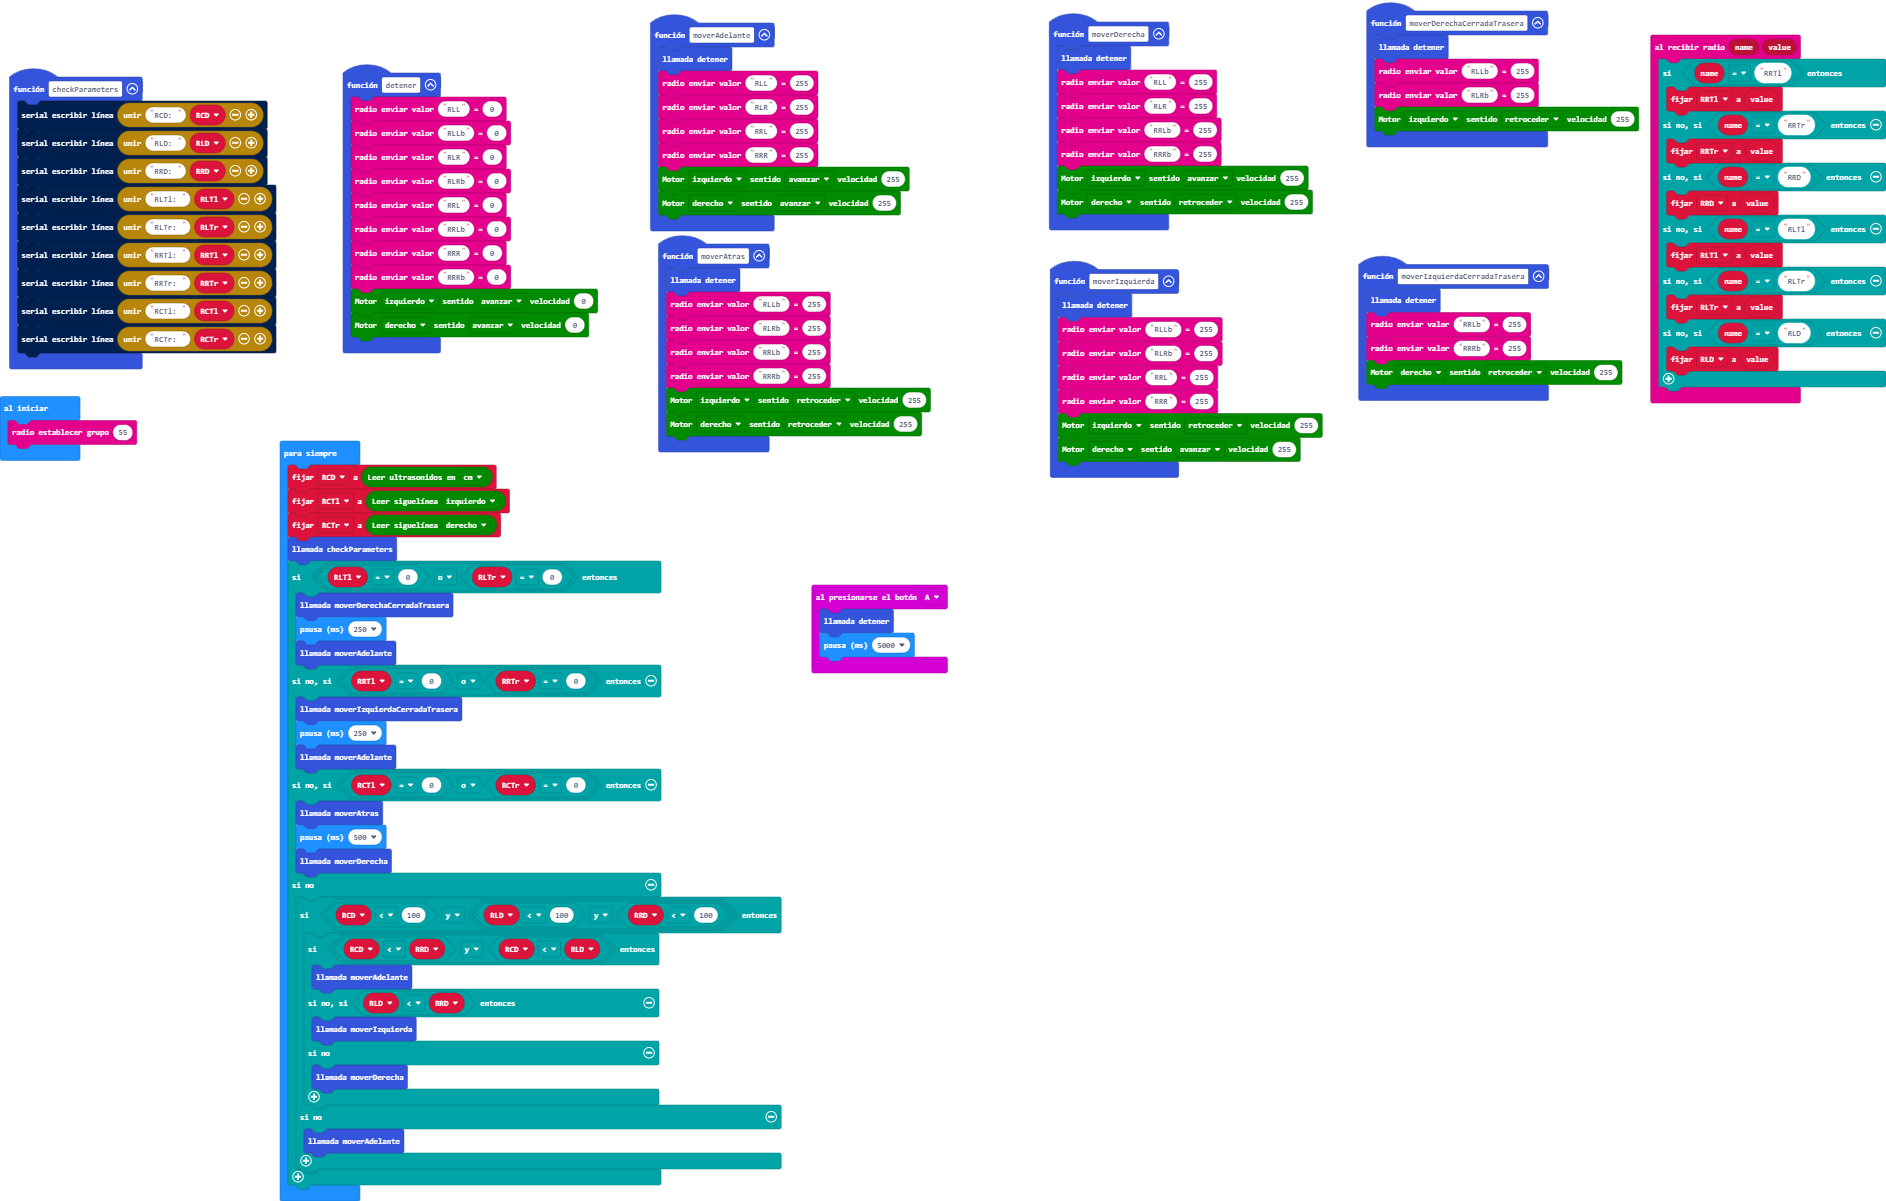
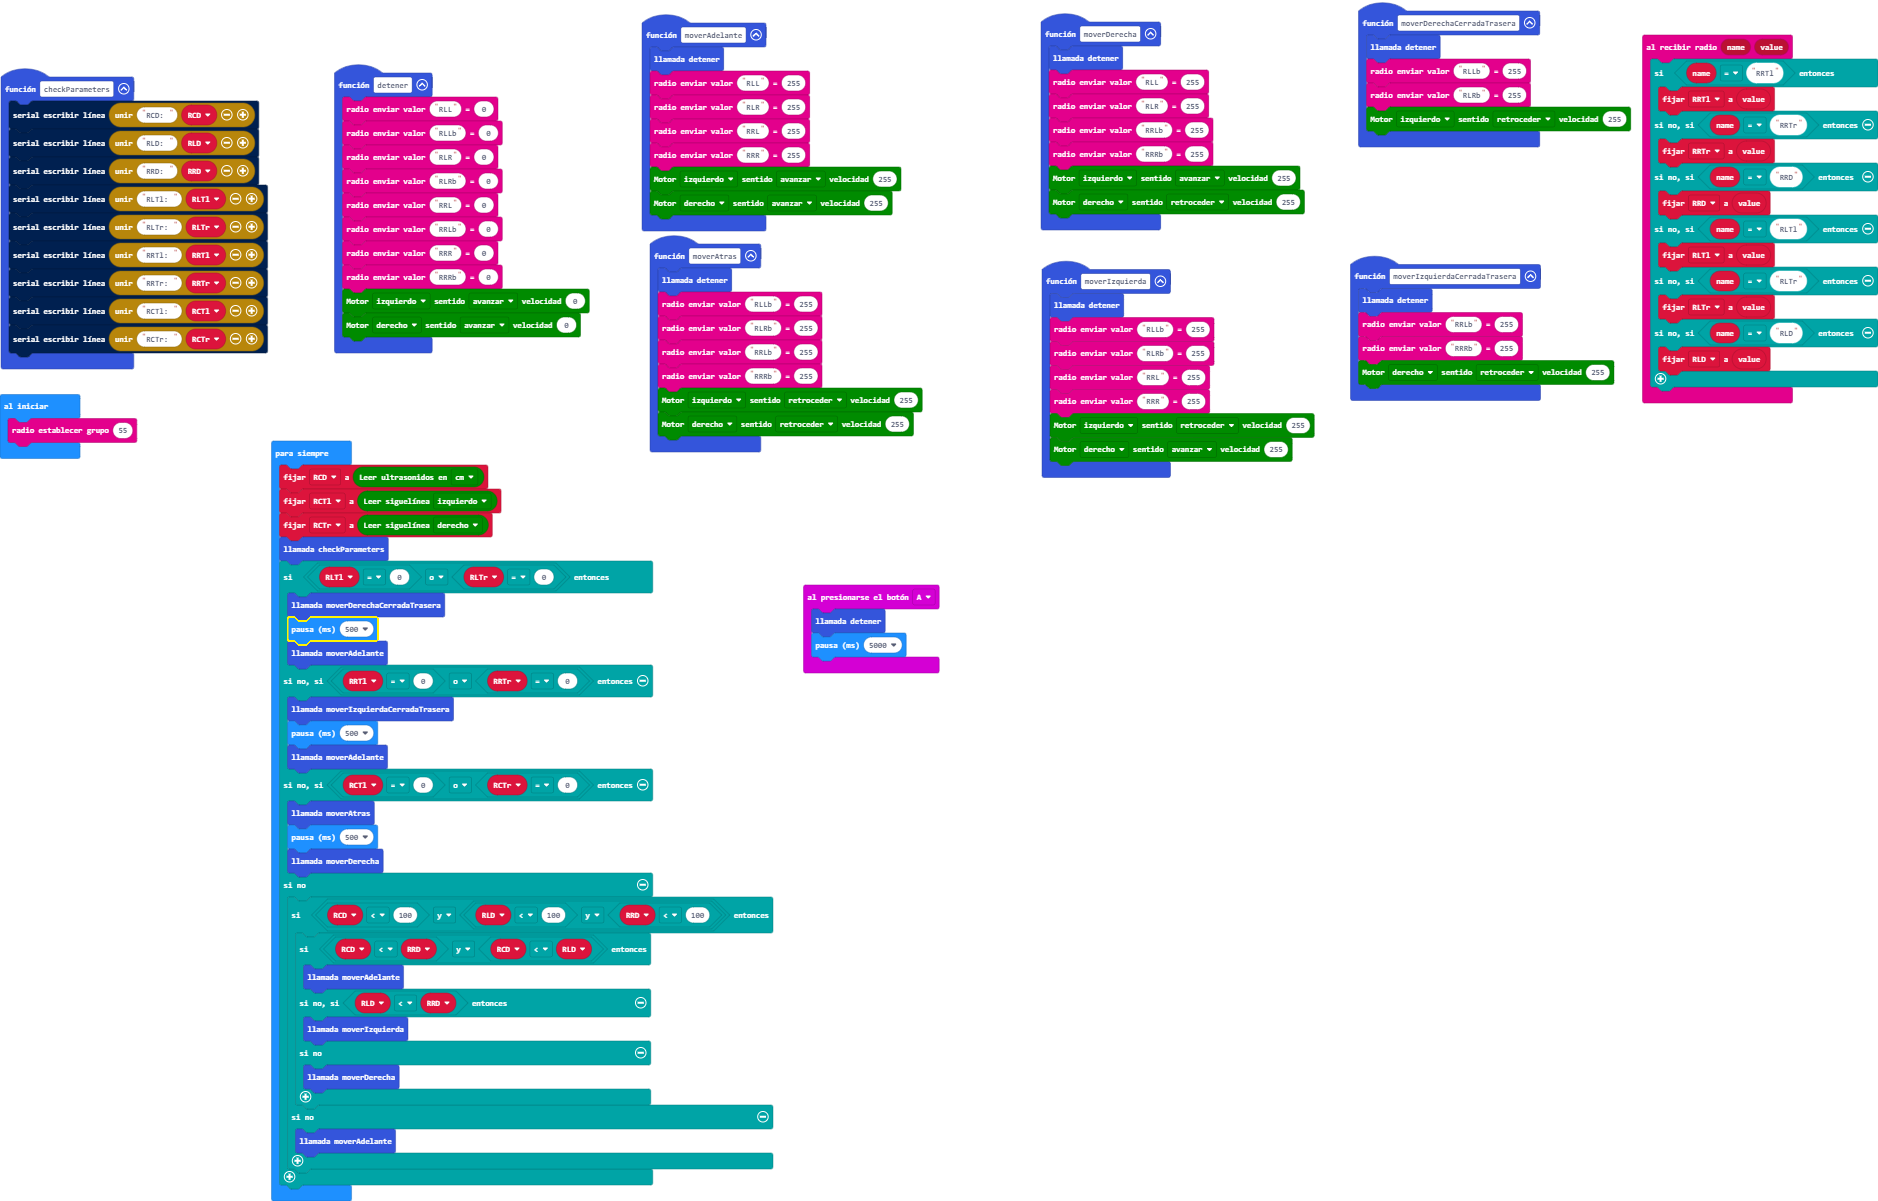
Actualizar main.blocks, main.ts

diff --git a/main.ts b/main.ts
@@ -105,11 +105,11 @@ basic.forever(function () {
     checkParameters()
     if (RLTl == 0 || RLTr == 0) {
         moverDerechaCerradaTrasera()
-        basic.pause(250)
+        basic.pause(500)
         moverAdelante()
     } else if (RRTl == 0 || RRTr == 0) {
         moverIzquierdaCerradaTrasera()
-        basic.pause(250)
+        basic.pause(500)
         moverAdelante()
     } else if (RCTl == 0 || RCTr == 0) {
         moverAtras()
